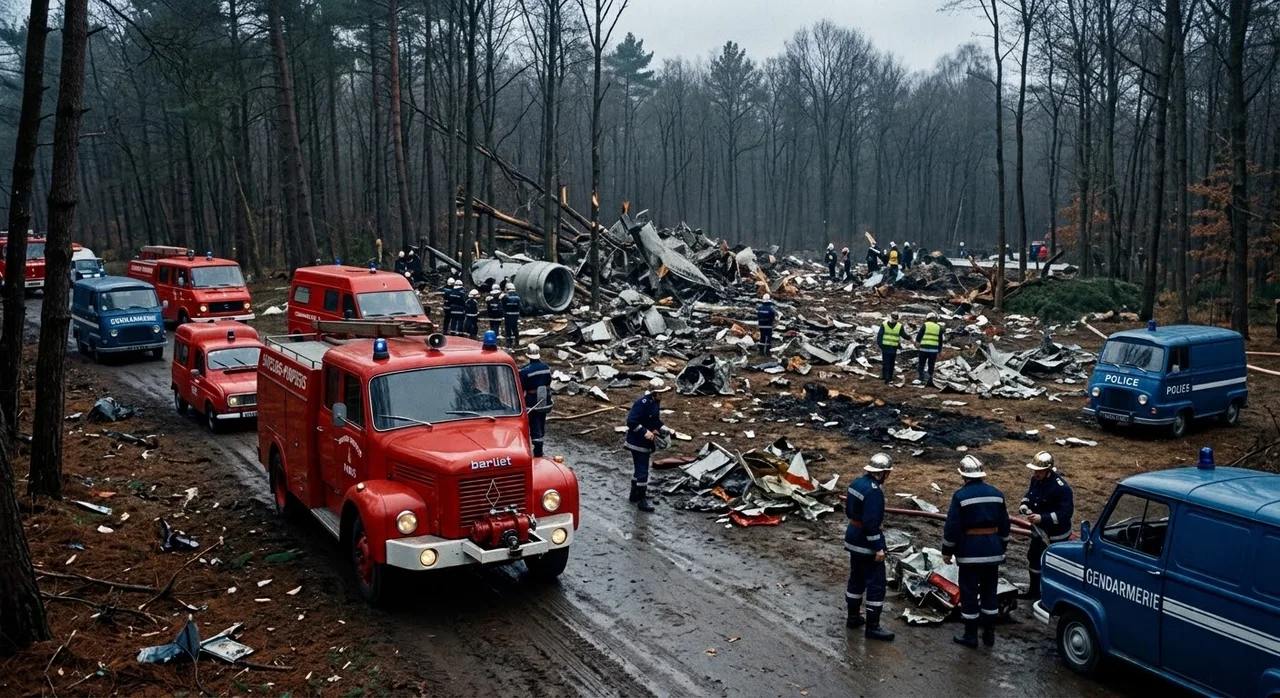
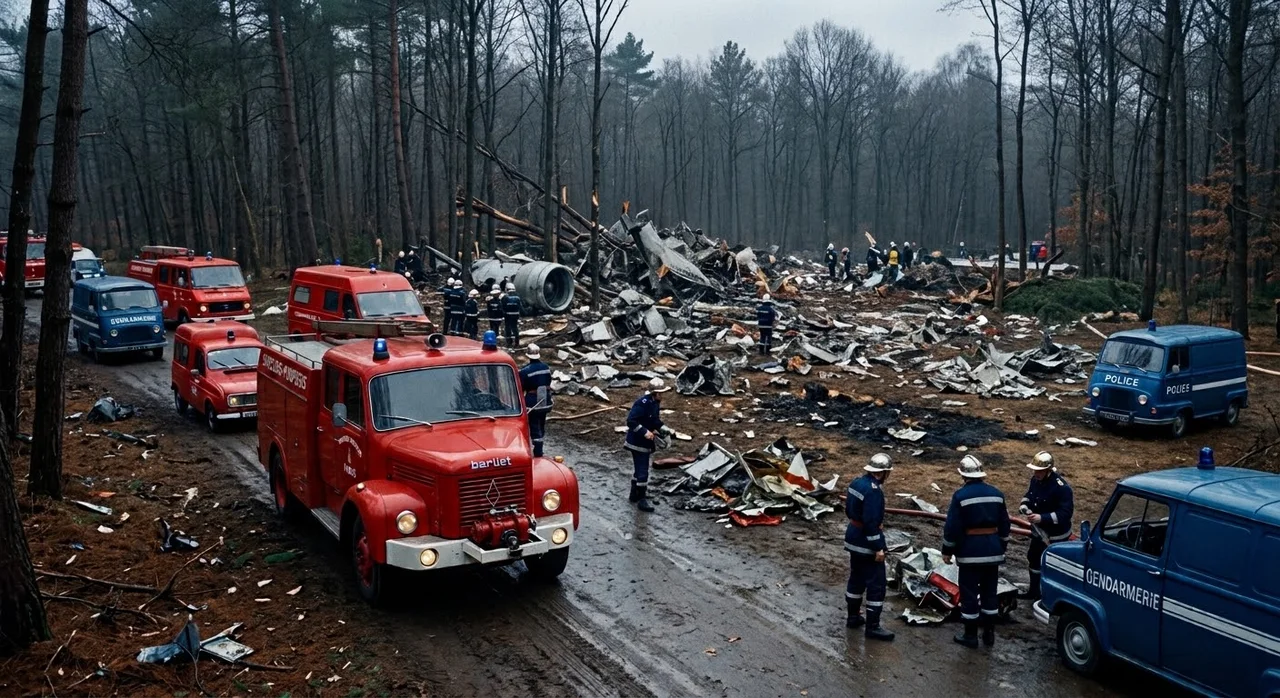
Hangar Escola: foto do resgate sem os coletes refletivos no capítulo 9 do Turkish 981
Claude-Session: https://claude.ai/code/session_01PxKViBYL6qRqF4hkoHqSJb

Changed region(s): [[0.6562, 0.4513, 0.75, 0.5716]]

diff --git a/aviao/sw.js b/aviao/sw.js
@@ -1,7 +1,7 @@
 /* Service worker: o app abre e funciona offline. */
-const CACHE = 'hangar-escola-v187';
+const CACHE = 'hangar-escola-v188';
 // Os arquivos levam "?v=" no index.html: ao mudar a versão, o celular nunca mistura CSS/JS antigo com HTML novo.
-const FILES = ['./', 'index.html', 'style.css?v=187', 'avioes.js?v=187', 'catalogo747.js?v=187', 'cockpit747.js?v=187', 'motor3d.js?v=187', 'motor747.js?v=187', 'meteo.js?v=187', 'radio.js?v=187', 'historia.js?v=187', 'desastres.js?v=187', 'app.js?v=187', 'icon.svg', 'apple-touch-icon.png', 'icon-192.png', 'icon-512.png', 'manifest.webmanifest', 'assets/747-lateral.jpg', 'assets/747-frontal.jpg', 'assets/747-motor.jpg', 'assets/747-superior.png', 'assets/747-lado.webp', 'assets/747-lado-prof.webp', 'assets/747-tras.webp', 'assets/747-tras-trem.webp', 'assets/bank-angle.mp3', 'assets/v1.mp3', 'assets/nuvem-cb.webp', 'assets/nuvem-cu.webp', 'assets/nuvem-ci.webp', 'assets/nuvem-cc.webp', 'assets/nuvem-cs.webp', 'assets/nuvem-ac.webp', 'assets/nuvem-as.webp', 'assets/nuvem-ns.webp', 'assets/nuvem-sc.webp', 'assets/nuvem-st.webp', 'assets/nuvens-atlas.webp', 'assets/historia-1881.webp', 'assets/historia-vevey.webp', 'assets/historia-serraria.webp', 'assets/historia-dominguez.webp', 'assets/historia-curtiss.webp', 'assets/jal123-mapa.webp', 'assets/jal123-haneda.webp', 'assets/jal123-decolagem.webp', 'assets/jal123-cauda.webp', 'assets/jal123-cabine.webp', 'assets/jal123-hidraulico.webp', 'assets/jal123-manetes.webp', 'assets/jal123-montanhas.webp', 'assets/jal123-bilhete.webp', 'assets/jal123-c130.webp', 'assets/jal123-deriva.webp', 'assets/af447-mapa.webp', 'assets/af447-galeao.webp', 'assets/af447-decolagem.webp', 'assets/af447-lua.webp', 'assets/af447-tempestade.webp', 'assets/af447-painel.webp', 'assets/cauda-af.webp', 'assets/cauda-jal.webp', 'assets/cauda-mh.webp', 'assets/cauda-gol.webp', 'assets/cauda-tk.webp', 'assets/tk981-mapa.webp', 'assets/tk981-orly.webp', 'assets/tk981-dc10.webp', 'assets/tk981-porta.webp', 'assets/tk981-ganchos.webp', 'assets/tk981-decolagem.webp', 'assets/tk981-cabos.webp', 'assets/tk981-floresta.webp', 'assets/tk981-saintpathus.webp', 'assets/tk981-resgate.webp', 'assets/gol1907-mapa.webp', 'assets/gol1907-legacy-sjc.webp', 'assets/gol1907-737.webp', 'assets/gol1907-legacy-voo.webp', 'assets/gol1907-cabine-legacy.webp', 'assets/gol1907-acc.webp', 'assets/gol1907-choque.webp', 'assets/gol1907-queda.webp', 'assets/gol1907-legacy-dano.webp', 'assets/gol1907-painel.webp', 'assets/gol1907-mata.webp', 'assets/gol1907-relatorio.webp', 'assets/gol1907-apagao.webp', 'assets/gol1907-justica.webp', 'assets/gol1907-destrocos.webp', 'assets/gol1907-rumo.webp', 'assets/gol1907-falha.webp', 'assets/gol1907-tcas.webp', 'assets/gol1907-controle.webp', 'assets/af447-pitot.webp', 'assets/af447-pitot-gelo.webp', 'assets/af447-manches.webp', 'assets/af447-estol.webp', 'assets/af447-cabine.webp', 'assets/af447-queda.webp', 'assets/af447-deriva.webp', 'assets/af447-painel-voos.webp', 'assets/af447-fundo.webp', 'assets/af447-relatorio.webp', 'assets/af447-sondas.webp', 'assets/af447-tribunal.webp', 'assets/af447-estol-diagrama.webp', 'assets/mh370-mapa.webp', 'assets/mh370-klia.webp', 'assets/mh370-decolagem.webp', 'assets/mh370-cinto.webp', 'assets/mh370-radar.webp', 'assets/mh370-peninsula.webp', 'assets/mh370-oceano.webp', 'assets/mh370-ultimo-eco.webp', 'assets/mh370-satelite.webp', 'assets/mh370-busca.webp', 'assets/mh370-bluefin.webp', 'assets/mh370-deriva.webp'];
+const FILES = ['./', 'index.html', 'style.css?v=188', 'avioes.js?v=188', 'catalogo747.js?v=188', 'cockpit747.js?v=188', 'motor3d.js?v=188', 'motor747.js?v=188', 'meteo.js?v=188', 'radio.js?v=188', 'historia.js?v=188', 'desastres.js?v=188', 'app.js?v=188', 'icon.svg', 'apple-touch-icon.png', 'icon-192.png', 'icon-512.png', 'manifest.webmanifest', 'assets/747-lateral.jpg', 'assets/747-frontal.jpg', 'assets/747-motor.jpg', 'assets/747-superior.png', 'assets/747-lado.webp', 'assets/747-lado-prof.webp', 'assets/747-tras.webp', 'assets/747-tras-trem.webp', 'assets/bank-angle.mp3', 'assets/v1.mp3', 'assets/nuvem-cb.webp', 'assets/nuvem-cu.webp', 'assets/nuvem-ci.webp', 'assets/nuvem-cc.webp', 'assets/nuvem-cs.webp', 'assets/nuvem-ac.webp', 'assets/nuvem-as.webp', 'assets/nuvem-ns.webp', 'assets/nuvem-sc.webp', 'assets/nuvem-st.webp', 'assets/nuvens-atlas.webp', 'assets/historia-1881.webp', 'assets/historia-vevey.webp', 'assets/historia-serraria.webp', 'assets/historia-dominguez.webp', 'assets/historia-curtiss.webp', 'assets/jal123-mapa.webp', 'assets/jal123-haneda.webp', 'assets/jal123-decolagem.webp', 'assets/jal123-cauda.webp', 'assets/jal123-cabine.webp', 'assets/jal123-hidraulico.webp', 'assets/jal123-manetes.webp', 'assets/jal123-montanhas.webp', 'assets/jal123-bilhete.webp', 'assets/jal123-c130.webp', 'assets/jal123-deriva.webp', 'assets/af447-mapa.webp', 'assets/af447-galeao.webp', 'assets/af447-decolagem.webp', 'assets/af447-lua.webp', 'assets/af447-tempestade.webp', 'assets/af447-painel.webp', 'assets/cauda-af.webp', 'assets/cauda-jal.webp', 'assets/cauda-mh.webp', 'assets/cauda-gol.webp', 'assets/cauda-tk.webp', 'assets/tk981-mapa.webp', 'assets/tk981-orly.webp', 'assets/tk981-dc10.webp', 'assets/tk981-porta.webp', 'assets/tk981-ganchos.webp', 'assets/tk981-decolagem.webp', 'assets/tk981-cabos.webp', 'assets/tk981-floresta.webp', 'assets/tk981-saintpathus.webp', 'assets/tk981-resgate.webp', 'assets/gol1907-mapa.webp', 'assets/gol1907-legacy-sjc.webp', 'assets/gol1907-737.webp', 'assets/gol1907-legacy-voo.webp', 'assets/gol1907-cabine-legacy.webp', 'assets/gol1907-acc.webp', 'assets/gol1907-choque.webp', 'assets/gol1907-queda.webp', 'assets/gol1907-legacy-dano.webp', 'assets/gol1907-painel.webp', 'assets/gol1907-mata.webp', 'assets/gol1907-relatorio.webp', 'assets/gol1907-apagao.webp', 'assets/gol1907-justica.webp', 'assets/gol1907-destrocos.webp', 'assets/gol1907-rumo.webp', 'assets/gol1907-falha.webp', 'assets/gol1907-tcas.webp', 'assets/gol1907-controle.webp', 'assets/af447-pitot.webp', 'assets/af447-pitot-gelo.webp', 'assets/af447-manches.webp', 'assets/af447-estol.webp', 'assets/af447-cabine.webp', 'assets/af447-queda.webp', 'assets/af447-deriva.webp', 'assets/af447-painel-voos.webp', 'assets/af447-fundo.webp', 'assets/af447-relatorio.webp', 'assets/af447-sondas.webp', 'assets/af447-tribunal.webp', 'assets/af447-estol-diagrama.webp', 'assets/mh370-mapa.webp', 'assets/mh370-klia.webp', 'assets/mh370-decolagem.webp', 'assets/mh370-cinto.webp', 'assets/mh370-radar.webp', 'assets/mh370-peninsula.webp', 'assets/mh370-oceano.webp', 'assets/mh370-ultimo-eco.webp', 'assets/mh370-satelite.webp', 'assets/mh370-busca.webp', 'assets/mh370-bluefin.webp', 'assets/mh370-deriva.webp'];
 
 self.addEventListener('install', (e) => {
   e.waitUntil(caches.open(CACHE).then((c) => c.addAll(FILES)).then(() => self.skipWaiting()));

diff --git a/aviao/desastres.js b/aviao/desastres.js
@@ -916,7 +916,7 @@ const ACIDENTES = [
     p: ["Às 12:41, cerca de 77 segundos depois de a porta se abrir, o DC-10 bateu nas árvores da floresta de Ermenonville, a cerca de 430 nós, perto de 800 km/h, levemente inclinado, com as asas quase niveladas.", "O avião se desfez completamente. Abriu uma faixa de destruição de centenas de metros na mata, derrubando árvores como se fossem palitos. Não sobrou nenhuma parte grande inteira.", "Todas as 346 pessoas a bordo morreram na hora.", "Foi o acidente aéreo mais mortal da história até então. Só seria superado em 1977, pelo choque de dois 747 em Tenerife."] },
   { t: "Os seis de Saint-Pathus", foto: { src: "assets/tk981-saintpathus.webp", legenda: "Recriação da porta do porão e das poltronas caídas num campo perto de Saint-Pathus, no fim do inverno de 1974 (imagem ilustrativa)", tag: "Saint-Pathus · a porta e as poltronas", tagTopo: true }, parte: 2, hora: "3 de março", lugar: "Saint-Pathus", sabia: "A porta do porão foi encontrada inteira, longe da floresta. Foi a primeira grande pista de que o problema tinha começado na traseira do avião.", cena: CENAS.campo,
     p: ["A cerca de 15 km da floresta, num campo perto do vilarejo de Saint-Pathus, moradores encontraram a porta do porão traseiro do DC-10 caída na terra.", "Perto dela estavam as duas fileiras de poltronas e os seis passageiros que tinham sido sugados para fora no momento da descompressão. Eles caíram ali, muito antes do resto do avião.", "Aqueles achados mostraram aos investigadores, logo nas primeiras horas, a ordem do que tinha acontecido: primeiro a porta, depois o piso, depois a queda.", "Era exatamente o mesmo tipo de falha que já tinha acontecido com outro DC-10, dois anos antes."] },
-  { t: "Na mata", foto: { src: "assets/tk981-resgate.webp", legenda: "Recriação de bombeiros e gendarmes franceses entre os destroços na floresta de Ermenonville (imagem ilustrativa; os coletes refletivos não eram usados em 1974)", tag: "Bombeiros e soldados na mata" }, parte: 2, hora: "Março de 1974", lugar: "Floresta de Ermenonville", sabia: "A identificação das vítimas levou meses e envolveu peritos de vários países, com fichas dentárias, documentos e objetos pessoais.", cena: CENAS.socorro,
+  { t: "Na mata", foto: { src: "assets/tk981-resgate.webp", legenda: "Recriação de bombeiros e gendarmes franceses entre os destroços na floresta de Ermenonville (imagem ilustrativa)", tag: "Bombeiros e soldados na mata" }, parte: 2, hora: "Março de 1974", lugar: "Floresta de Ermenonville", sabia: "A identificação das vítimas levou meses e envolveu peritos de vários países, com fichas dentárias, documentos e objetos pessoais.", cena: CENAS.socorro,
     p: ["Bombeiros, policiais e soldados franceses chegaram à floresta pouco depois. O que encontraram foi devastador: os destroços estavam reduzidos a pedaços pequenos, espalhados entre as árvores.", "A área foi isolada e o trabalho de recolher as vítimas durou dias. Por causa da violência do impacto, identificar cada pessoa foi um trabalho lento e difícil.", "Em vários países, famílias souberam pelo rádio e pela televisão que seus parentes estavam num voo para o qual tinham trocado de última hora, por causa da greve.", "Muitas das vítimas eram jovens. Entre elas, dezenas de torcedores de rúgbi que voltavam do jogo de Paris."] },
   { t: "Windsor, 1972", parte: 3, hora: "12 de junho de 1972", lugar: "Sobre Windsor, Canadá", sabia: "No voo 96 da American Airlines, o avião estava quase vazio. Por isso o piso cedeu menos e alguns cabos continuaram funcionando.", cena: CENAS.windsor,
     p: ["Menos de dois anos antes, em 12 de junho de 1972, um DC-10 da American Airlines, o voo 96, decolou de Detroit. Sobre Windsor, no Canadá, a porta do porão traseiro se abriu.", "Aconteceu tudo do mesmo jeito: descompressão, piso cedendo, cabos danificados. O leme travou e o motor da cauda deixou de responder. Mas o avião tinha poucos passageiros, e parte dos comandos continuou funcionando.", "O comandante Bryce McCormick, que tinha treinado por conta própria pilotar usando os motores, conseguiu voltar e pousar em Detroit. Todos sobreviveram.", "A causa ficou clara para todo mundo: a porta podia ser fechada sem travar. Era preciso consertar o projeto em todos os DC-10."] },

diff --git a/aviao/index.html b/aviao/index.html
@@ -17,7 +17,7 @@
   <link rel="preconnect" href="https://fonts.googleapis.com">
   <link rel="preconnect" href="https://fonts.gstatic.com" crossorigin>
   <link href="https://fonts.googleapis.com/css2?family=Barlow+Condensed:wght@500;600;700&family=IBM+Plex+Mono:wght@400;500&family=IBM+Plex+Sans:wght@400;500;600&display=swap" rel="stylesheet">
-  <link rel="stylesheet" href="style.css?v=187">
+  <link rel="stylesheet" href="style.css?v=188">
 </head>
 <body>
   <!-- Intro: o avião decola pela pista iluminada e aparece o nome do app (toque para pular) -->
@@ -989,16 +989,16 @@
       </div>
     </section>
   </aside>
-  <script src="avioes.js?v=187"></script>
-  <script src="catalogo747.js?v=187"></script>
-  <script src="cockpit747.js?v=187"></script>
-  <script src="motor3d.js?v=187"></script>
-  <script src="motor747.js?v=187"></script>
-  <script src="meteo.js?v=187"></script>
-  <script src="radio.js?v=187"></script>
-  <script src="historia.js?v=187"></script>
-  <script src="desastres.js?v=187"></script>
-  <script src="app.js?v=187"></script>
+  <script src="avioes.js?v=188"></script>
+  <script src="catalogo747.js?v=188"></script>
+  <script src="cockpit747.js?v=188"></script>
+  <script src="motor3d.js?v=188"></script>
+  <script src="motor747.js?v=188"></script>
+  <script src="meteo.js?v=188"></script>
+  <script src="radio.js?v=188"></script>
+  <script src="historia.js?v=188"></script>
+  <script src="desastres.js?v=188"></script>
+  <script src="app.js?v=188"></script>
   <script>
     // No APK os arquivos já vêm dentro do app; o service worker é só para o site.
     const nativo = !!(window.Capacitor && window.Capacitor.isNativePlatform && window.Capacitor.isNativePlatform());
